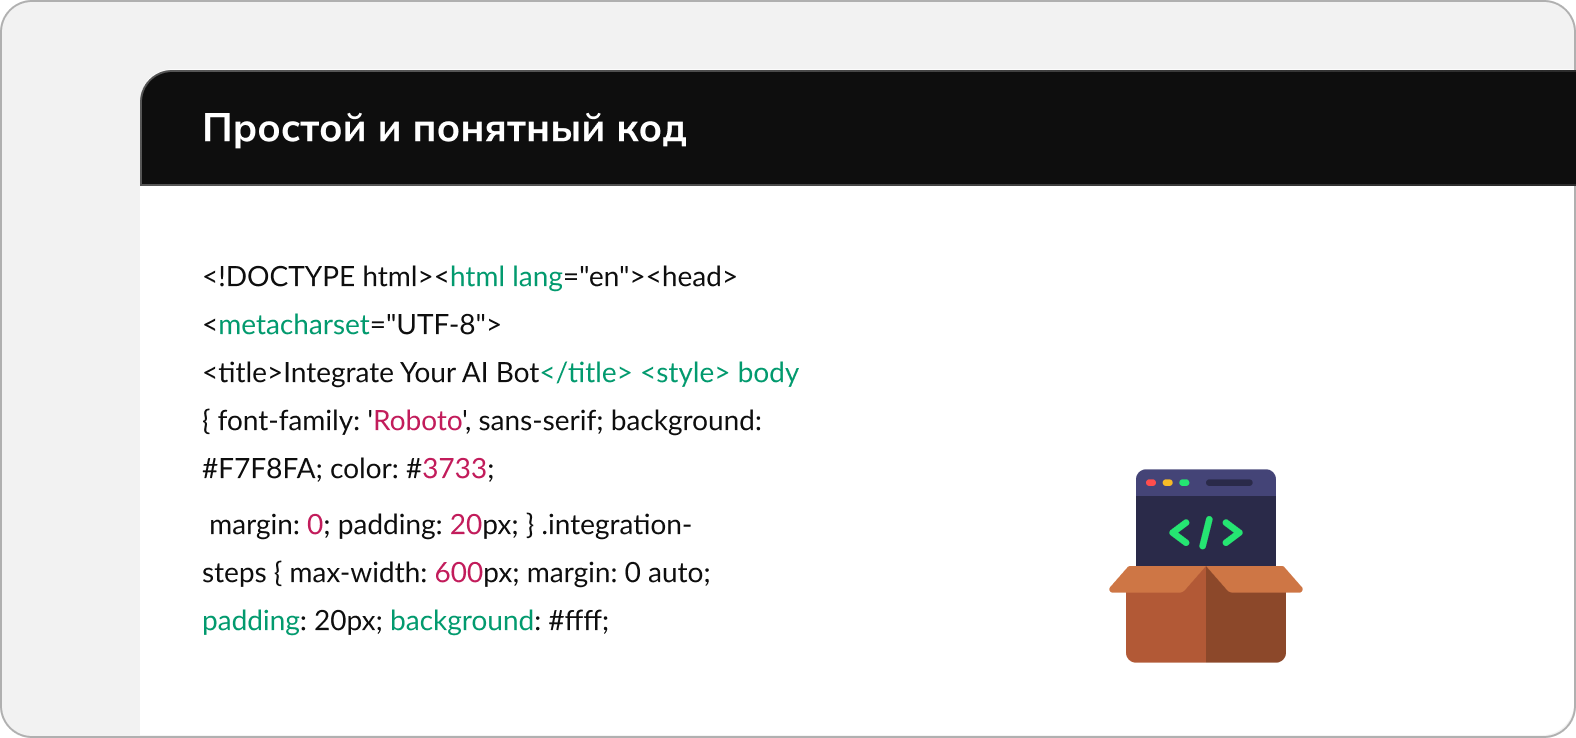
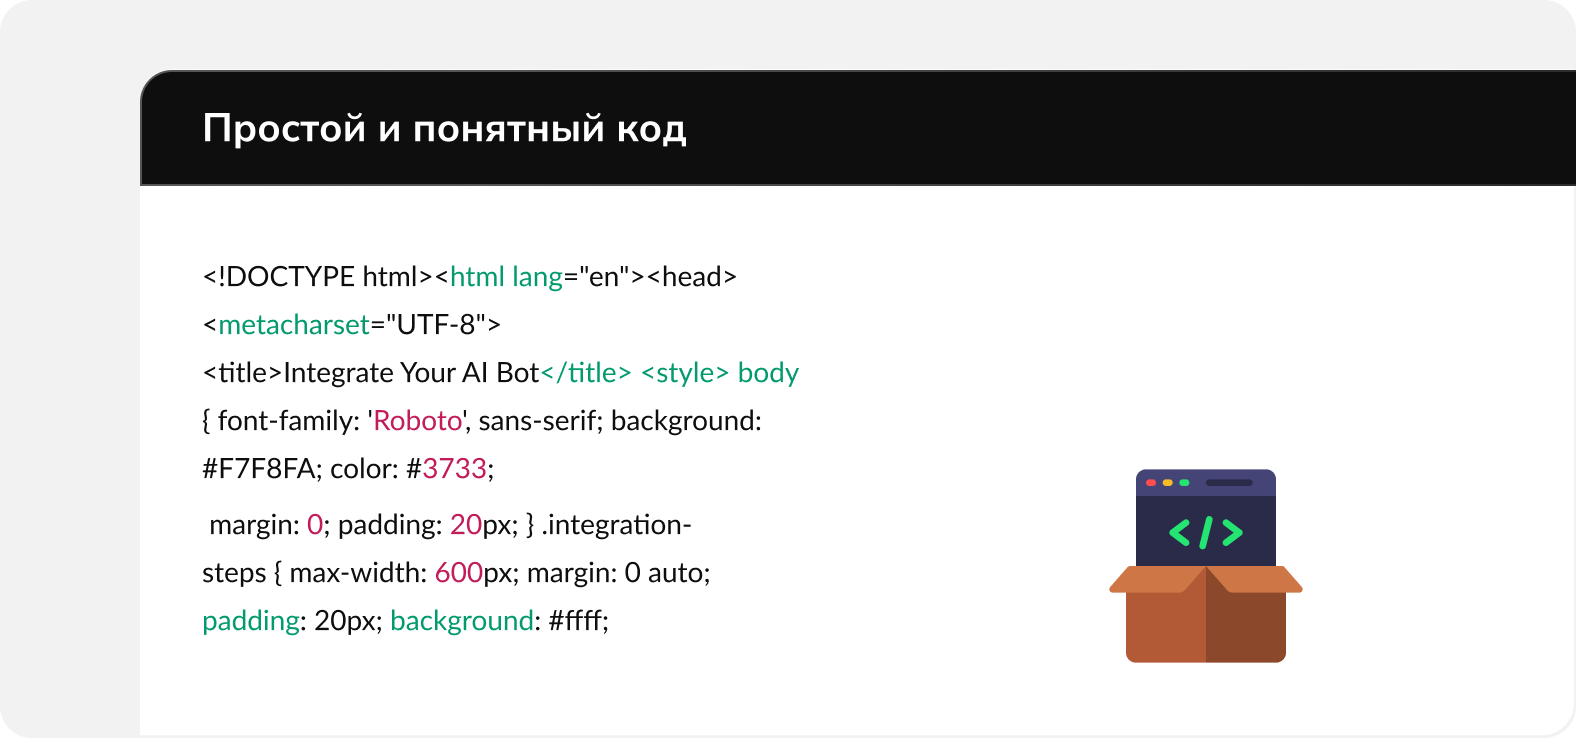
fix, add footer

diff --git a/index.html b/index.html
@@ -15,7 +15,7 @@
       <header>
         <div class="container">
           <div class="header scroll">
-            <a href="" class="logo"></a>
+            <a href="/" class="logo"></a>
             <nav class="nav">
               <a href="/" class="nav-link">Главная</a>
               <a href="#navAbout" class="nav-link">О нас</a>
@@ -164,26 +164,24 @@
               <img src="images/info/women.png" alt="Женщина">
               <img src="images/info/rating.png" alt="Рейтинг">
             </div>
-            <div class="info-item">
-              <img src="images/info/screen-code.png" alt="Скриншот кода">
-            </div>
+            <div class="info-item"></div>
             <div class="info-item">
               <h5 class="title-h5">Поддержка 24/7</h5>
               <div class="languages">
                 <div class="languages-item">
-                  <img src="images/info/english.svg" alt="Английский">
+                  <img src="images/languages/english.svg" alt="Английский">
                   <p class="text-list">English</p>
                 </div>
                 <div class="languages-item">
-                  <img src="images/info/japanese.svg" alt="Японский">
+                  <img src="images/languages/japanese.svg" alt="Японский">
                   <p class="text-list">Japanese</p>
                 </div>
                 <div class="languages-item">
-                  <img src="images/info/brazil.svg" alt="Бразильский">
+                  <img src="images/languages/brazil.svg" alt="Бразильский">
                   <p class="text-list">Brazil</p>
                 </div>
                 <div class="languages-item">
-                  <img src="images/info/nigeria.svg" alt="Нигерийский">
+                  <img src="images/languages/nigeria.svg" alt="Нигерийский">
                   <p class="text-list">Nigeria</p>
                 </div>
               </div>
@@ -194,7 +192,7 @@
                 <div class="faq-list">
                   <details class="faq-details">
                     <summary class="faq-summary">
-                      <img src="images/info/chat.svg" alt="Чат">
+                      <img src="images/faq/icon-support.svg" alt="Чат">
                       <p class="text-list">Мгновенная поддержка чата</p>
                     </summary>
                     <p class="description description-summary">Наш AI-бот отвечает клиентам в режиме реального времени 24/7 - без перерывов и выходных. Это помогает сократить время ожидания и повысить уровень обслуживания, даже при высокой нагрузке.</p>
@@ -202,14 +200,14 @@
 
                   <details class="faq-details">
                     <summary class="faq-summary">
-                      <img src="images/info/answer.svg" alt="Ответы">
+                      <img src="images/faq/icon-answer.svg" alt="Ответы">
                       <p class="text-list">Персонализированные ответы</p></summary>
                     <p class="description description-summary">Бот анализирует запросы и данные клиента, чтобы давать максимально релевантные и индивидуальные ответы. Это создает ощущение живого общения и улучшает пользовательский опыт.</p>
                   </details>
 
                   <details class="faq-details">
                     <summary class="faq-summary">
-                      <img src="images/info/integration.svg" alt="Интеграция">
+                      <img src="images/faq/icon-integration.svg" alt="Интеграция">
                       <p class="text-list">Простая интеграция</p>
                     </summary>
                     <p class="description description-summary">Внедрение занимает всего несколько минут - бот легко подключается к вашему сайту, CRM или мессенджерам. Не требуется глубоких технических знаний или доработок.</p>
@@ -221,6 +219,34 @@
         </div>
       </div>
     </section>
+
+    <section class="section-free">
+      <div class="container">
+        <div class="free">
+          <div class="free-text">
+            <h2 class="title-h2">Запустите лучший AI-бот</h2>
+            <p class="description">Chitti разработан, чтобы оптимизировать работу внутри компании.</p>
+            <a href="" class="btn-accent btn-line"><span>Получить 7 дней бесплатно</span></a>
+          </div>
+        </div>
+      </div>
+    </section>
+
+    <footer class="footer">
+      <div class="container">
+        <div class="footer-top">
+          <a href="/" class="logo"><span>chitti</span></a>
+          <div class="social-list">
+            <a href="" class="social-link tg" target="_blank"></a>
+            <a href="" class="social-link vk" target="_blank"></a>
+            <a href="" class="social-link yt" target="_blank"></a>
+          </div>
+        </div>
+        <div class="footer-bottom">
+          <p class="title-h5">Copyright © 2025, ChittiAI</p>
+        </div>
+      </div>
+    </footer>
 
     <script src="scripts/script.js"></script>
     

diff --git a/styles/main.css b/styles/main.css
@@ -175,6 +175,26 @@ a {
   background-size: contain;
 }
 
+.btn-line {
+  background: #0f152c;
+  border: 1px solid var(--gradient);
+  margin: 0 auto;
+  padding: 15px 36px;
+}
+
+.btn-line::before {
+  content: '';
+  display: block;
+  background: var(--gradient);
+  position: absolute;
+  width: calc(100% + 2px);
+  height: calc(100% + 2px);
+  top: -1px;
+  left: -1px;
+  border-radius: 10px;
+  z-index: -1;
+}
+
 .badge {
   display: flex;
   align-items: center;
@@ -261,7 +281,6 @@ a {
   font-weight: 700;
   line-height: 1.4;
   color: var(--dark);
-  /* margin-top: 51px; */
   margin-bottom: 16px;
 }
 
@@ -534,7 +553,7 @@ a {
 
 .section-product {
   margin-top: 120px;
-  margin-bottom: 120px;
+  margin-bottom: 115px;
 }
 
 .product {
@@ -596,12 +615,10 @@ a {
 
 .info-item:nth-child(2) {
   grid-column: 2 / 4;
-  border: none;
-}
-
-.info-item:nth-child(2) img {
-  width: 100%;
-  height: 100%;
+  background-image: url(/images/info/screen-code.png);
+  background-repeat: no-repeat;
+  background-size: contain;
+  background-position: center center;
 }
 
 .info-item:nth-child(3) {
@@ -650,18 +667,14 @@ a {
 .faq-details {
   background-color: var(--light);
   border-radius: 10px;
-  margin: 0 39px;
+  margin: 0 39px 20px;
   padding-left: 20px;
   padding-top: 10px;
   padding-bottom: 10px;
 }
 
-.faq-details {
-  margin-bottom: 20px;
-}
-
 .faq-details > .faq-summary:first-of-type {
-   list-style: none;
+  list-style: none;
 }
 
 .faq-summary {
@@ -671,27 +684,163 @@ a {
   cursor: pointer;
 }
 
-.faq-summary:after {
-   content: "+";
-   background: var(--gradient);
-   border-radius: 15px;
-   width: 20px;
-   height: 20px;
-   position: absolute;
-   top: calc(50% - 10px);
-   right: 20px;
-   display: flex;
-   align-items: center;
-   justify-content: center;
-   color: var(--light);
+.faq-summary::before {
+  content: "";
+  display: block;
+  border-radius: 15px;
+  width: 20px;
+  height: 20px;
+  background: var(--gradient);
+  position: absolute;
+  top: calc(50% - 11px);
+  right: 20px;
 }
 
-.faq-details[open] > .faq-summary:after {
-   content: "-";
+
+.faq-summary::after {
+  content: "";
+  border-radius: 15px;
+  width: 20px;
+  height: 20px;
+  background-image: url(../images/plus.svg);
+  background-repeat: no-repeat;
+  background-size: 10px 10px;
+  background-position: center center;
+  position: absolute;
+  top: calc(50% - 11px);
+  right: 20px;
+}
+
+.faq-details[open] > .faq-summary::before {
+  background: var(--line);
+}
+
+.faq-details[open] > .faq-summary::after {
+  background-image: url(../images/minus.svg);
 }
 
 .description-summary {
   padding: 10px;
   margin: 0;
-  transition: var(--tr); /* пока не увидела плавность раскрытия этого сообщения */
+}
+
+/* Section Free */
+
+.section-free {
+  color: var(--light);
+  background-image: url(../images/bg-free.png);
+  background-position: center center;
+  background-repeat: no-repeat;
+  background-size: cover;
+}
+
+.free {
+  display: flex;
+  justify-content: end;
+  text-align: center;
+}
+
+.free-text {
+  padding-right: 114px;
+  padding-top: 125px;
+  padding-bottom: 135px;
+  position: relative;
+  z-index: 0;
+}
+
+.free-text .title-h2 {
+  max-width: 420px;
+  margin: 0 auto;
+  margin-bottom: 11px;
+}
+
+.free-text .description {
+  max-width: 350px;
+  margin: 0 auto;
+  margin-bottom: 35px;
+}
+
+/* Footer */
+
+.footer {
+  padding-top: 141px;
+  padding-bottom: 35px;
+}
+
+.footer-top {
+  display: flex;
+  justify-content: space-between;
+  border-bottom: 1px solid #a7a7a7;
+  padding-bottom: 69px;
+}
+
+.footer-top .logo {
+  background: none;
+  display: flex;
+}
+
+.footer-top span::before {
+  content: '';
+  display: block;
+  width: 70px;
+  height: 70px;
+  background-image: url(../images/logo-footer.svg);
+  background-repeat: no-repeat;
+  background-size: contain;
+}
+
+.footer-top span {
+  display: flex;
+  align-items: center;
+  gap: 32px;
+  font-family: var(--font-nunito);
+  font-size: 75px;
+  font-weight: 700;
+  line-height: 1.2;
+  margin-top: 0;
+  margin-bottom: 0;
+}
+
+.social-list {
+  display: flex;
+  gap: 14px;
+  padding-top: 9px;
+}
+
+.social-link {
+  display:inline-block;
+  width: 30px;
+  height: 30px;
+}
+
+.tg {
+  background-image: url(../images/social/telegram.svg);
+}
+
+.tg:hover {
+  background-image: url(../images/social/telegram-hover.svg);
+}
+
+.vk {
+  background-image: url(../images/social/vk.svg);
+}
+
+.vk:hover {
+  background-image: url(../images/social/vk-hover.svg);
+}
+
+.yt {
+  background-image: url(../images/social/youtube.svg);
+}
+
+.yt:hover {
+  background-image: url(../images/social/youtube-hover.svg);
+}
+
+.footer-bottom {
+  padding-top: 3px;
+}
+
+.footer-bottom .title-h5 {
+  text-align: center;
 }
